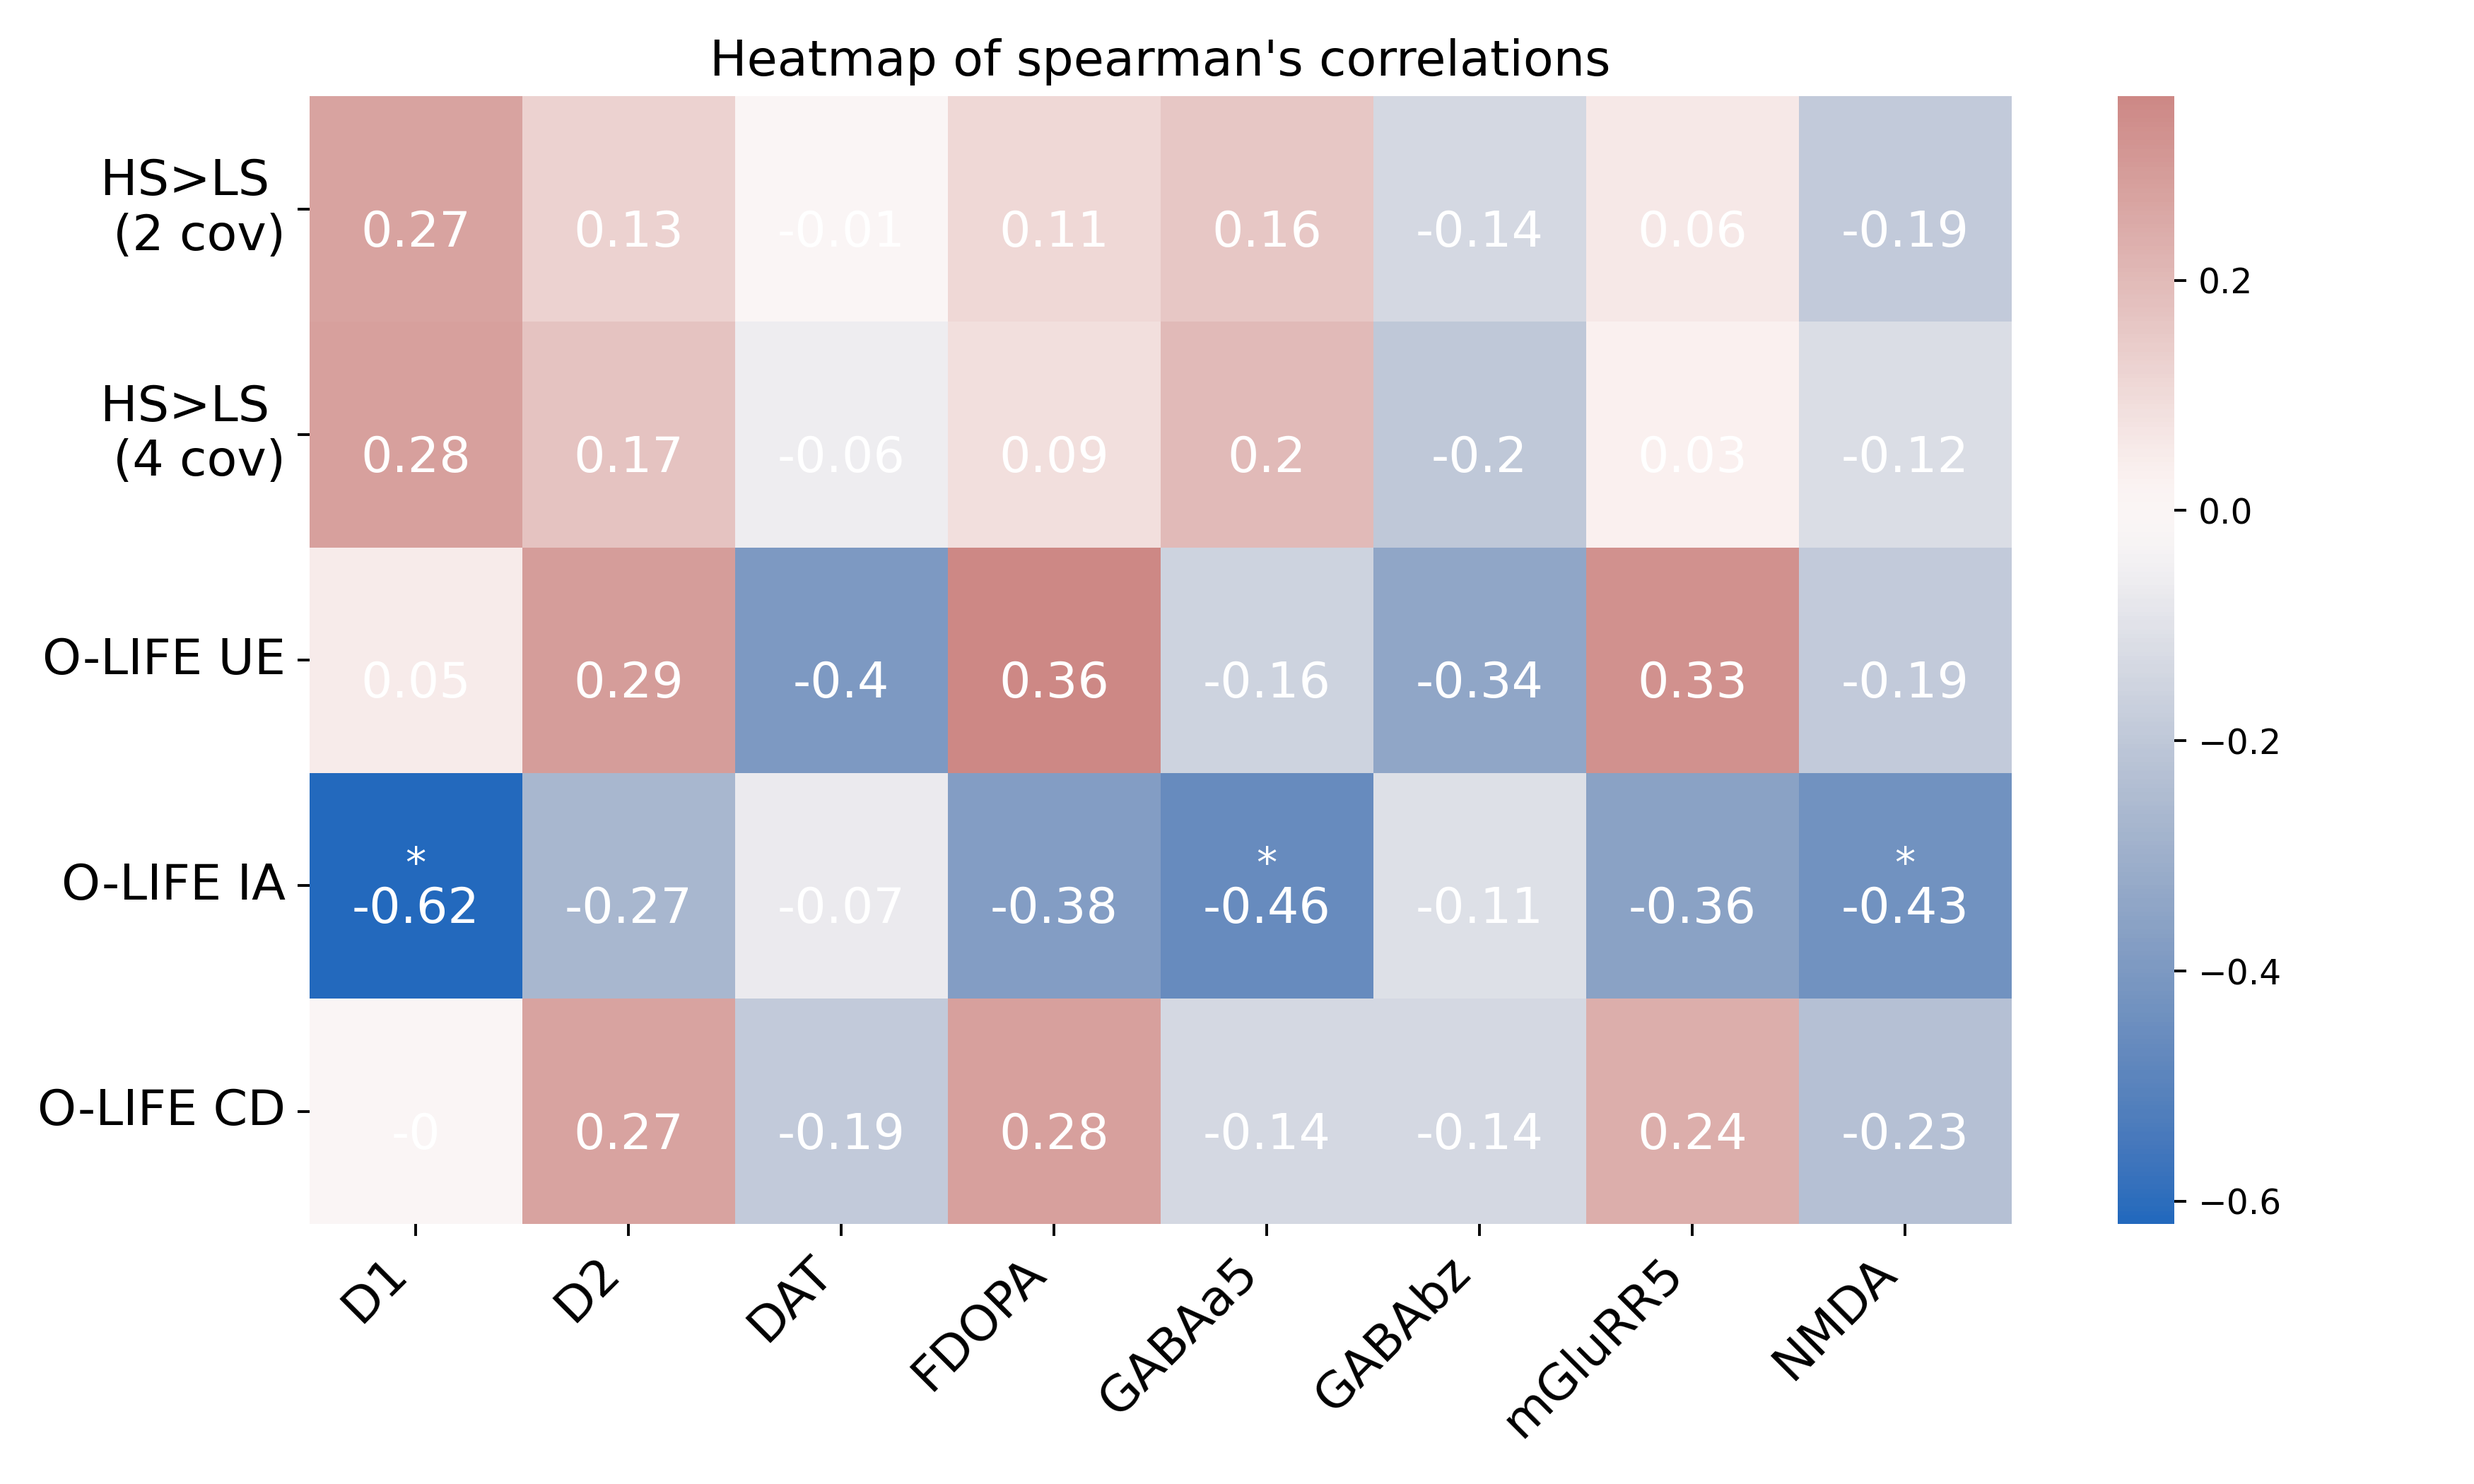
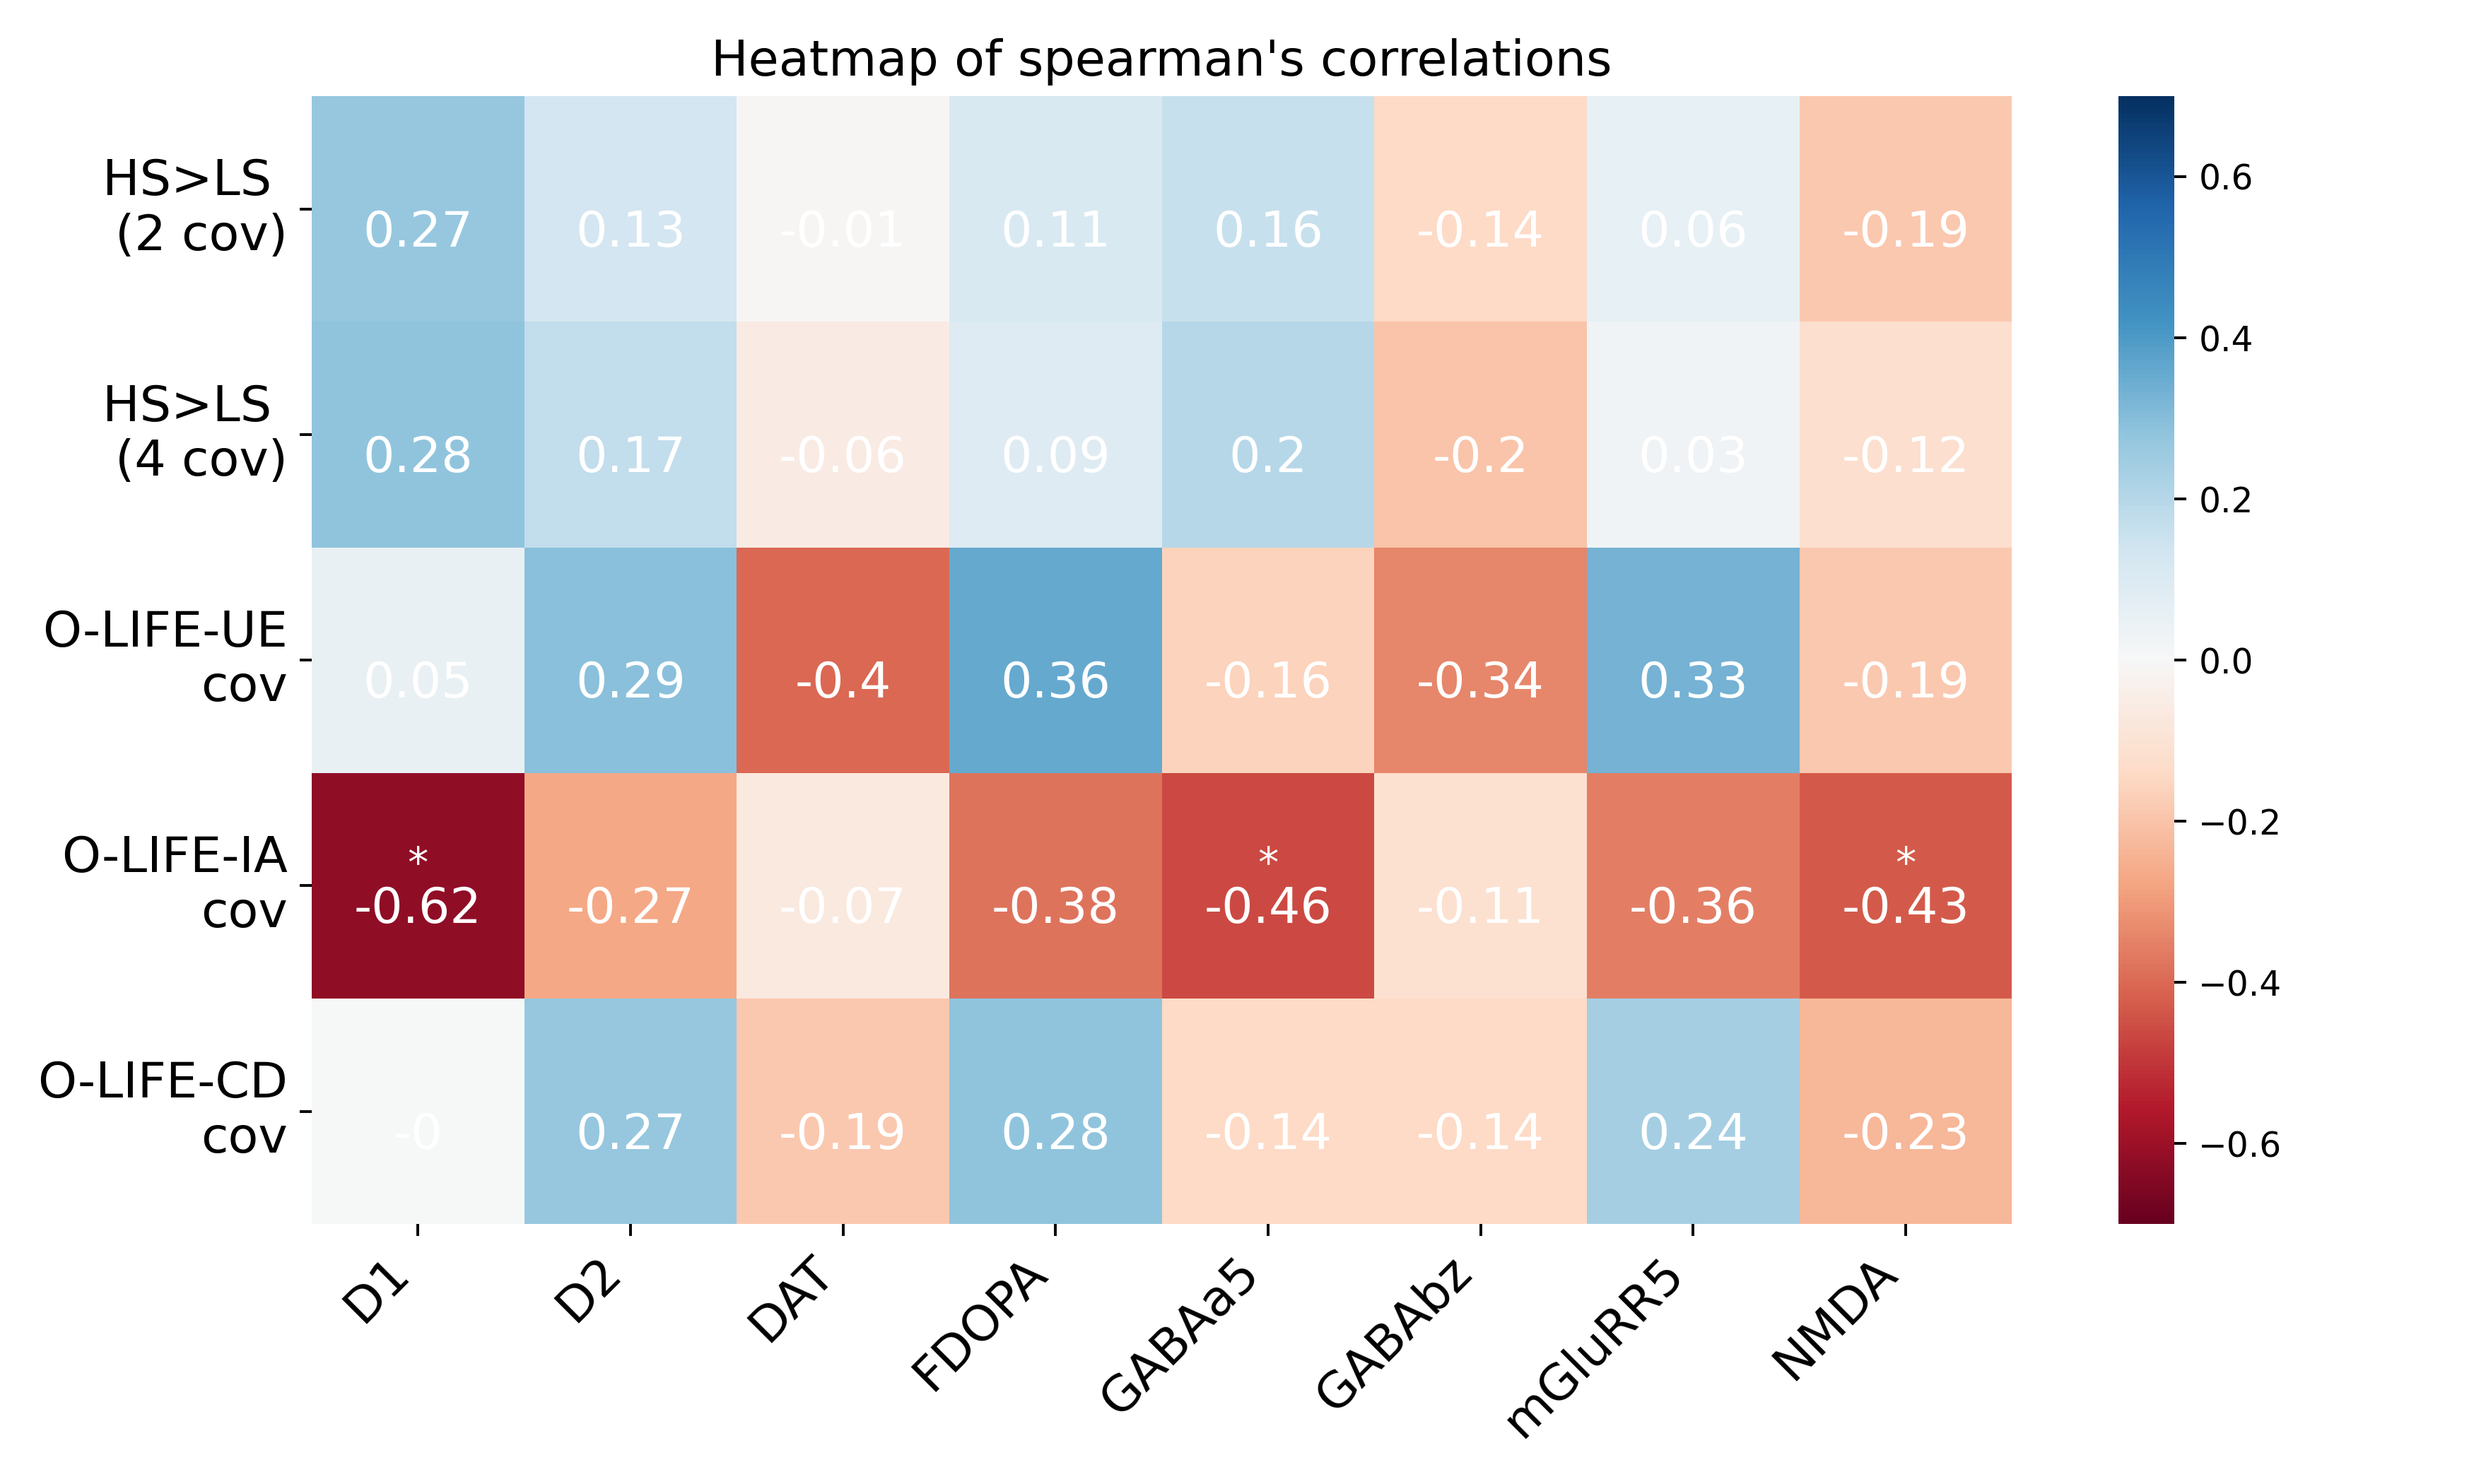
.

diff --git a/4_figures/1_heatmap.py b/4_figures/1_heatmap.py
@@ -51,8 +51,6 @@ bool_signf2 = bool_signf2.replace(False, ' ')
 corr1 = round(df_comparison1['corr'].unstack(1),2)
 corr2 = round(df_comparison2['corr'].unstack(1),2)
 
-print(corr1)
-
 # DATA VISUALISATION
 import seaborn as sns
 import matplotlib.pyplot as plt
@@ -71,9 +69,9 @@ plt.rcParams.update({
 # Labels for the heatmap- y axis
 CBF_labels1 = [ # names of CBF files
     'HS>LS', # no covariates
-    'O-LIFE UE', # O-LIFE-UE regression
-    'O-LIFE IA', # O-LIFE-IA regression
-    'O-LIFE CD' # O-LIFE-CD regression
+    'O-LIFE-UE', # O-LIFE-UE regression
+    'O-LIFE-IA', # O-LIFE-IA regression
+    'O-LIFE-CD' # O-LIFE-CD regression
 ]
 CBF_labels2 = [
     'HS>LS \n(2 cov)',
@@ -90,15 +88,14 @@ map_zeroes2 = pd.DataFrame(np.zeros((len(CBF_files2), len(atlas_names))))
 # Define figure size
 plt.figure(figsize=(10,6))
 # Define the colour palette
-cmap1=sns.color_palette("coolwarm", as_cmap=True)
-cmap2=sns.color_palette("vlag", as_cmap=True)
+cmap=sns.color_palette("RdBu", as_cmap=True)
 
 # HEATMAP 1
 # First heatmap1 is the transparent/ no-colour heatmap containing just the annotations of correlation coefficients
 heatmap_values1 = sns.heatmap(map_zeroes1, cmap=None, annot_kws={'va':'top','fontsize':'x-large'}, annot=corr1, square=False, cbar=False)
 
 # The second heatmap1 is the main one, colour based on strength of correlations, while annotations are based on p_values (* if significant after Bonferroni)
-heatmap_main1 = sns.heatmap(corr1, cmap=cmap1, center=0, annot_kws={'va':'bottom', 'fontsize':'large'}, annot=bool_signf1, fmt='', square=False)
+heatmap_main1 = sns.heatmap(corr1, cmap=cmap, center=0, annot_kws={'va':'bottom', 'fontsize':'large'}, annot=bool_signf1, fmt='', square=False, vmin=-0.7, vmax=0.7)
 
 # Set labels/title
 heatmap_main1.set(xlabel="", ylabel="")
@@ -107,6 +104,7 @@ heatmap_main1.set_xticklabels(labels=receptor_labels,fontproperties=font)
 heatmap_main1.set_yticklabels(labels=CBF_labels1,fontproperties=font)
 # Rotate labels on x axis by 45 degrees
 plt.xticks(rotation=45, ha="right")
+plt.yticks(rotation=0, ha="right")
 # Fit all labels within the figure
 plt.tight_layout()
 # plt.show()
@@ -123,7 +121,7 @@ plt.clf()
 heatmap_values2 = sns.heatmap(map_zeroes2, cmap=None, annot_kws={'va':'top','fontsize':'x-large'}, annot=corr2, square=False, cbar=False)
 
 # The second heatmap2 is the main one, colour based on strength of correlations, while annotations are based on p_values (* if significant after Bonferroni)
-heatmap_main2 = sns.heatmap(corr2, cmap=cmap2, center=0, annot_kws={'va':'bottom', 'fontsize':'large'}, annot=bool_signf2, fmt='', square=False)
+heatmap_main2 = sns.heatmap(corr2, cmap=cmap, center=0, annot_kws={'va':'bottom', 'fontsize':'large'}, annot=bool_signf2, fmt='', square=False, vmin=-0.7, vmax=0.7)
 
 # Set labels/title
 heatmap_main2.set(xlabel="", ylabel="")
